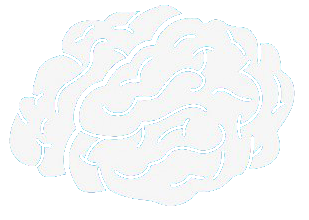
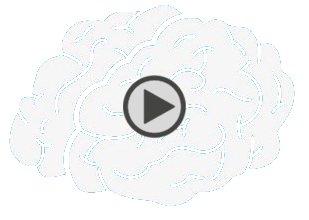
nuevo navbar desplegable y "home" mobile first

Changed region(s): [[0.3786, 0.3273, 0.6117, 0.6273]]

diff --git a/css/home.css b/css/home.css
@@ -1,0 +1,124 @@
+@media only screen and (min-width: 300px) {
+/* TODAS */
+  body {
+    background-color: #3da8a8;
+    overflow: hidden;
+}
+/* NAVIGATION */
+  .navbar {
+    background-color: #fa4f4f !important;
+    height: 10vh;
+    margin-bottom: 5vh;
+  }
+  .nav-link {
+    color: white !important;
+    font-size: 2.5vh;
+  }
+  .nav-link:hover {
+    text-decoration: underline;
+  }
+  .dropdown-item {
+    font-size: 2.5vh;
+  }
+/* HOME */
+  .brain {
+    position: absolute;
+    z-index: 1;
+    width: 70vw;
+    left: 15vw;
+    top: 25vh;
+  }
+  .is-false {
+    height: 40vh;
+    background-color: #f52853;
+    border-radius: 0 0 10% 10%;
+    width: 90vw;
+    margin-left: 5vw;
+  }
+  .is-true {
+    height: 40vh;
+    background-color: #2dcc70;
+    border-radius: 10% 10% 0 0;
+    width: 90vw;
+    margin-left: 5vw;
+  }
+  .true {
+    margin-top: 10vh;
+    width: 78vw;
+    margin-left: 6vw;
+  }
+  h5{
+    color: white;
+    margin-top: 12vh;
+    margin-left: 20vw;
+  }
+  .false {
+    margin-top: 5vh;
+    width: 42vw;
+    margin-left: 23vw;
+  }
+}
+
+  @media only screen and (min-width: 700px) {
+  /* HOME */
+  .brain {
+    width: 50vw;
+    left: 25vw;
+  }
+  .is-false, .is-true {
+    width: 85vw;
+    margin-left: 5vw;
+  }
+  .true {
+    width: 60vw;
+    margin-left: 13vw;
+  }
+  h5{
+  font-size: 2em;
+  margin-left: 25vw;
+  }
+  .false {
+    width: 35vw;
+    margin-left: 26vw;
+  }
+}
+
+@media only screen and (min-width: 1000px) {
+/* NAVIGATION */
+.nav-link {
+  font-size: 3vh;
+}
+/* HOME */
+.brain {
+  width: 25vw;
+  left: 30vw;
+}
+/* divs de fondo*/
+.is-false {
+  height: 75vh;
+  border-radius: 0 10% 10% 0;
+  margin: 0;
+}
+.is-true {
+  height: 75vh;
+  border-radius: 10% 0 0 10%;
+  margin: 0vw;
+  margin-left: 5vw;
+}
+/* textos verdadero y falso*/
+.true {
+  width: 30vw;
+  margin: 10vh 4vw;
+}
+h5{
+display:none;
+}
+.false {
+  width: 16vw;
+  margin: 58vh 12vw;
+}
+}
+
+
+-----------------------------------------------------
+/* IMAGEN DEL HOME Y BOTON JUGAR */

diff --git a/partials/navbar.php b/partials/navbar.php
@@ -1,8 +1,9 @@
 
 <header>
-  <nav class="navbar  navbar-expand navbar-light bg-light">
-  <div class="collapse navbar-collapse" id="navbarSupportedContent">
-    <ul class="navbar-nav mr-auto">
+
+  <nav class="navbar navbar-light bg-light col-12">
+
+    <ul class="nav col-9">
         <li class="nav-item active">
           <a class="nav-link" href="home.php">Home </a>
         </li>
@@ -12,18 +13,18 @@
         <li class="nav-item">
           <a class="nav-link" href="faq.php">FAQ</a>
         </li>
-      </ul>
-    <ul class="navbar-nav mr-5" id="login">
-        <li class="nav-item active">
-          <a href="login.php"><button type="button" class="btn">Login</button></a>
-        </li>
-        <li class="nav-item active">
-          <a href="registro.php"><button type="button" class="btn">Registro</button></a>
-        </li>
-        <li class="nav-item active">
-          <a href="contacto.php"><button type="button" class="btn">Contacto</button></a>
+    </ul>
+
+    <ul class="nav justify-content-end col-3">
+        <li class="nav-item dropdown">
+          <a class="nav-link dropdown-toggle" data-toggle="dropdown" href="#" role="button" aria-haspopup="true" aria-expanded="false">More</a>
+          <div class="dropdown-menu">
+            <a class="dropdown-item" href="Login.php">Login</a>
+            <a class="dropdown-item" href="Registro.php">Registro</a>
+            <a class="dropdown-item" href="contacto.php">Contacto</a>
+          </div>
         </li>
     </ul>
-  </div>
+
   </nav>
 </header>

diff --git a/home.php b/home.php
@@ -1,8 +1,7 @@
 <?php
 require_once("./partials/controller.php");
-
   $titulo= "Home | Juego de Preguntas y Respuestas";
-  $css="main";
+  $css="home";
 ?>
 
 <!DOCTYPE html>
@@ -15,16 +14,18 @@ include_once("./partials/head.php");
 <?php
   include_once("./partials/navbar.php");
   ?>
-  <div class="container position-relative">
+  <!-- MAIN -->
+  <div class="container position-relative col-lg-11">
     <a href="jugar.php">
     <img src="img/cerebro.png" class="brain position-absolute" alt="..." />
     </a>
-    <div class="row mb-3">
-      <div class="col-md-6 col-sm-6 col-xs-6 is-true">
-        <img src="img/verdadero.png" class="true rounded float-left" alt="" />
+        <div class="row mb-3">
+      <div class="is-true col-lg-5">
+        <img src="img/verdadero.png" class="true rounded" alt="" />
       </div>
-      <div class="col-md-6 col-sm-6 col-xs-6 is-false">
-        <img src="img/falso.png" class="false float-right" alt="" />
+      <div class="is-false col-lg-5">
+        <h5>Comienza a jugar</h5>
+        <img src="img/falso.png" class="false" alt="" />
       </div>
     </div>
   </div>
